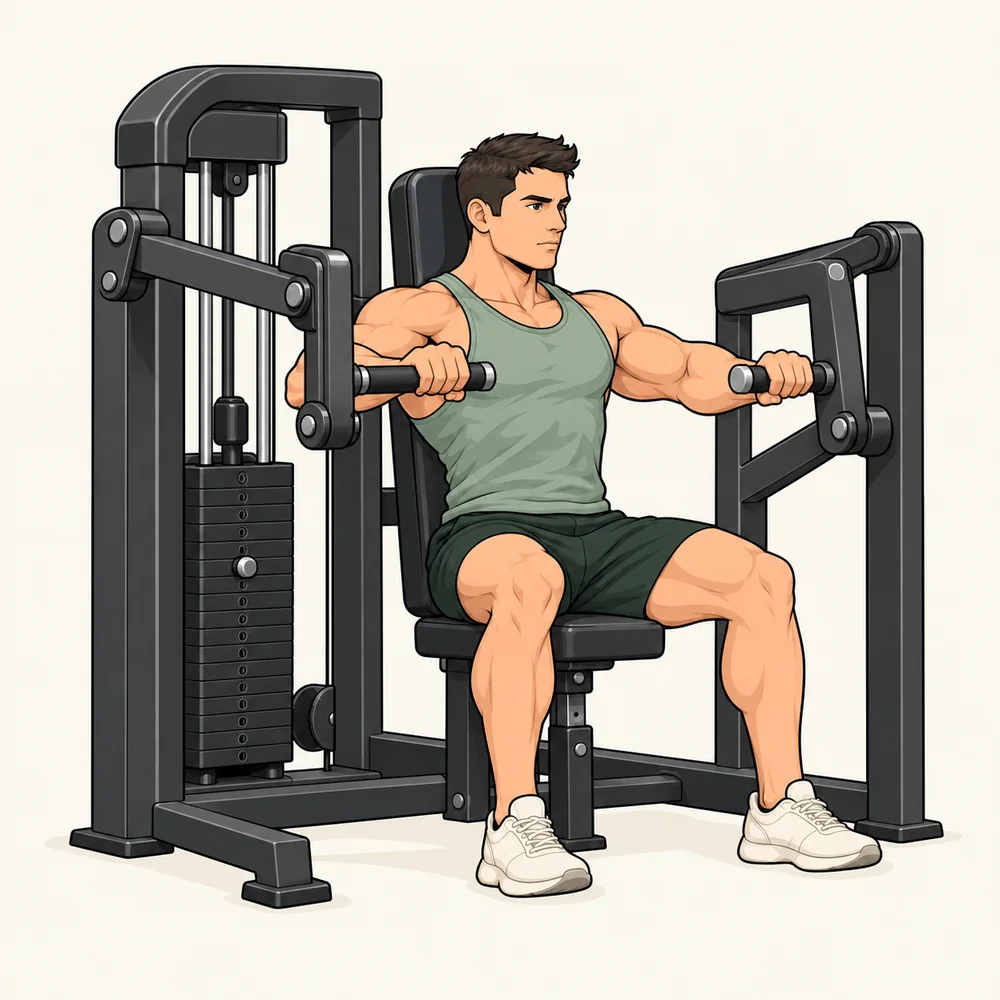
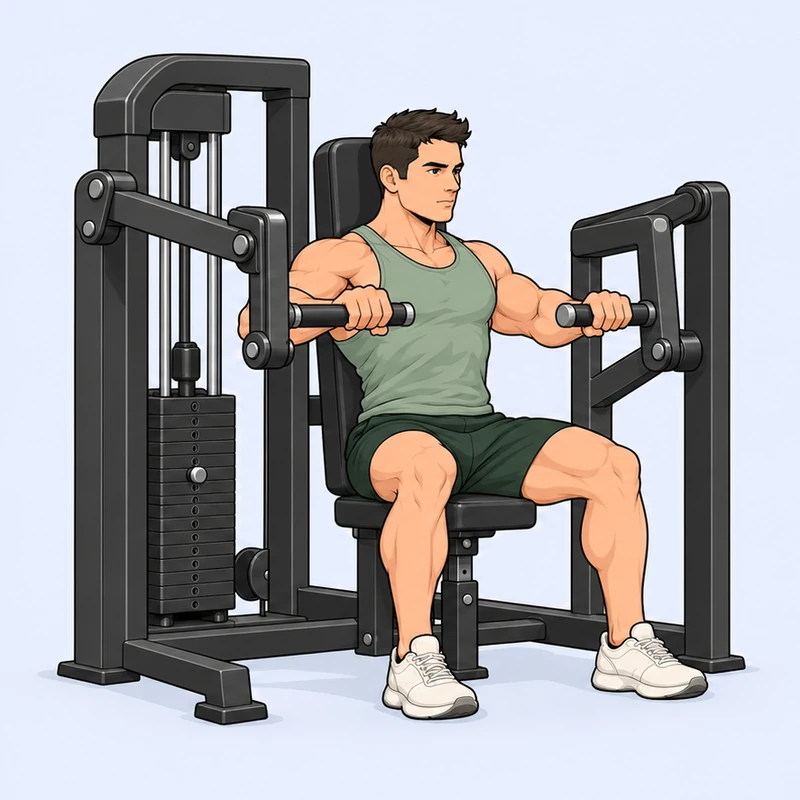
Update Nick Thursday illustrations with shared blue exercise animations

Changed region(s): [[0.0625, 0.0625, 0.9688, 0.9375]]

diff --git a/src/ExerciseMotion.tsx b/src/ExerciseMotion.tsx
@@ -6,19 +6,24 @@ const motionImages: Record<string, Record<string, number>> = {
   a: { 'bench-press': 0, 'incline-dumbbell': 21, 'pec-deck': 2,
     'parallel-bar-dips': 36, 'rope-pushdown': 3, 'bar-pushdown': 23, 'front-plank':54 },
   b: { 'assisted-pullup': 68, 'chest-supported-row': 31, 'preacher-curl': 10,
-    'rope-curl': 32, 'lateral-raise': 19, 'face-pull': 67 },
+    'rope-curl': 32, 'face-pull': 67 },
   c: { 'lever-squat': 66, 'leg-press': 12, 'leg-extension': 13,
     'leg-curl': 14, 'lying-leg-curl': 56, 'hip-abduction': 64, 'calf-raise': 16 },
-  d: { 'incline-dumbbell': 21, 'crossover': 22, 'parallel-bar-dips': 36,
+  d: { 'incline-dumbbell': 21, 'parallel-bar-dips': 36,
     'rope-pushdown': 3, 'military-situp': 35 },
   e: { 'assisted-pullup': 68, 'preacher-curl': 10,
     'cable-curl': 29, 'rope-curl': 32, 'cable-lateral-raise': 59, 'shoulder-press': 18, 'face-pull': 67 },
   home: { 'tuck-front-lever': 24, 'hanging-leg-raise': 49 },
 };
 
+const sharedMotionImages: Record<string, number> = {
+  'decline-situp': 34, 'cable-row': 7,
+  pushup: 45, 'incline-machine': 30, 'vertical-chest-press': 46,
+  crossover: 22, 'dumbbell-shoulder-press': 47, 'front-raise': 48, 'lateral-raise': 19,
+};
+
 export function sharedExerciseMotionId(id: string | undefined, image: number) {
-  const sharedImages: Record<string, number> = { 'decline-situp': 34, 'cable-row': 7 };
-  return id && sharedImages[id] === image ? id : undefined;
+  return id && sharedMotionImages[id] === image ? id : undefined;
 }
 
 // Some animations are shared by all profiles. The original set remains tied to Bruno's workouts.
@@ -30,6 +35,9 @@ export function exerciseMotionId(plan: string | undefined, workout: string, id: 
 
 export function workoutCoverUrl(plan: string | undefined, workout: string, image: number) {
   const base = `${import.meta.env.BASE_URL}images/`;
+  if (plan === 'sheet' && workout === 'd' && image === 47) {
+    return `${base}motion/covers/dumbbell-shoulder-press.webp`;
+  }
   const covers: Record<string, string> = { a: 'bench-press', b: 'assisted-pullup', c: 'lever-squat', d: 'incline-dumbbell', e: 'preacher-curl', home: 'tuck-front-lever' };
   const cover = covers[workout];
   return cover && exerciseMotionId(plan, workout, cover, image)
